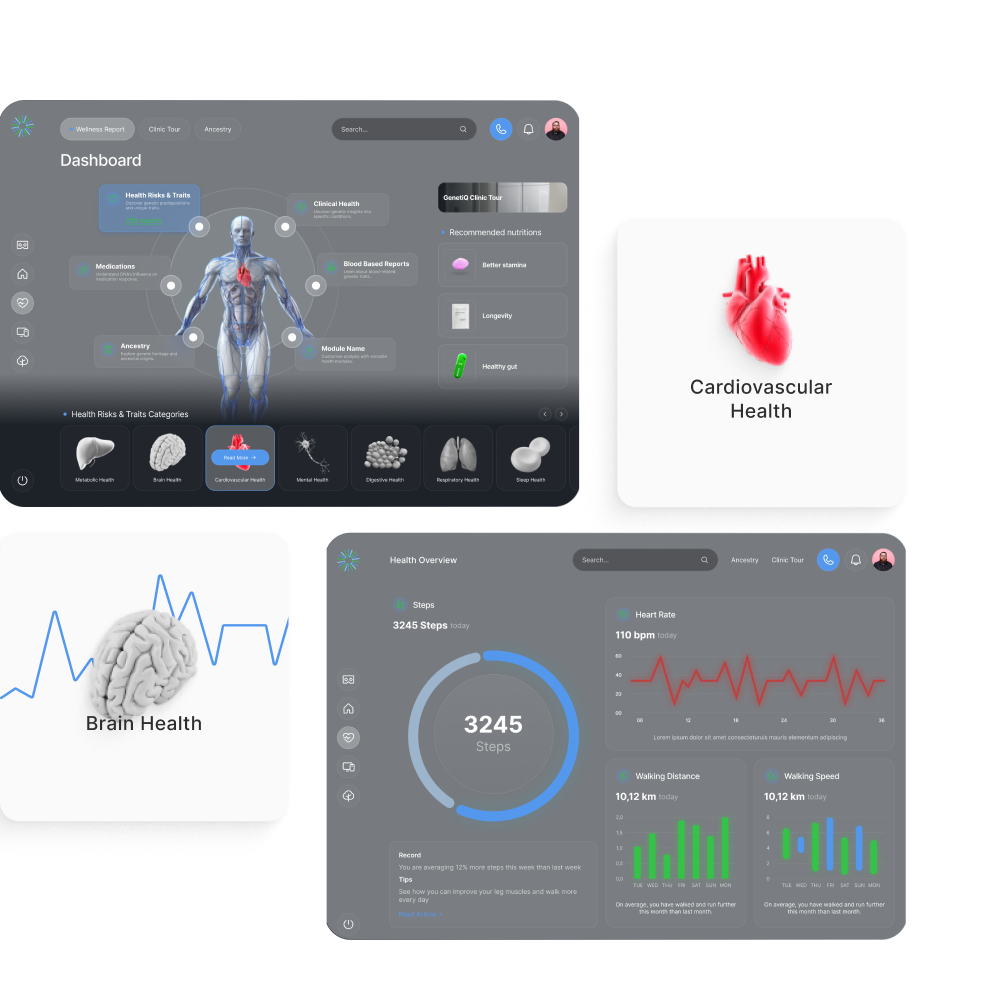
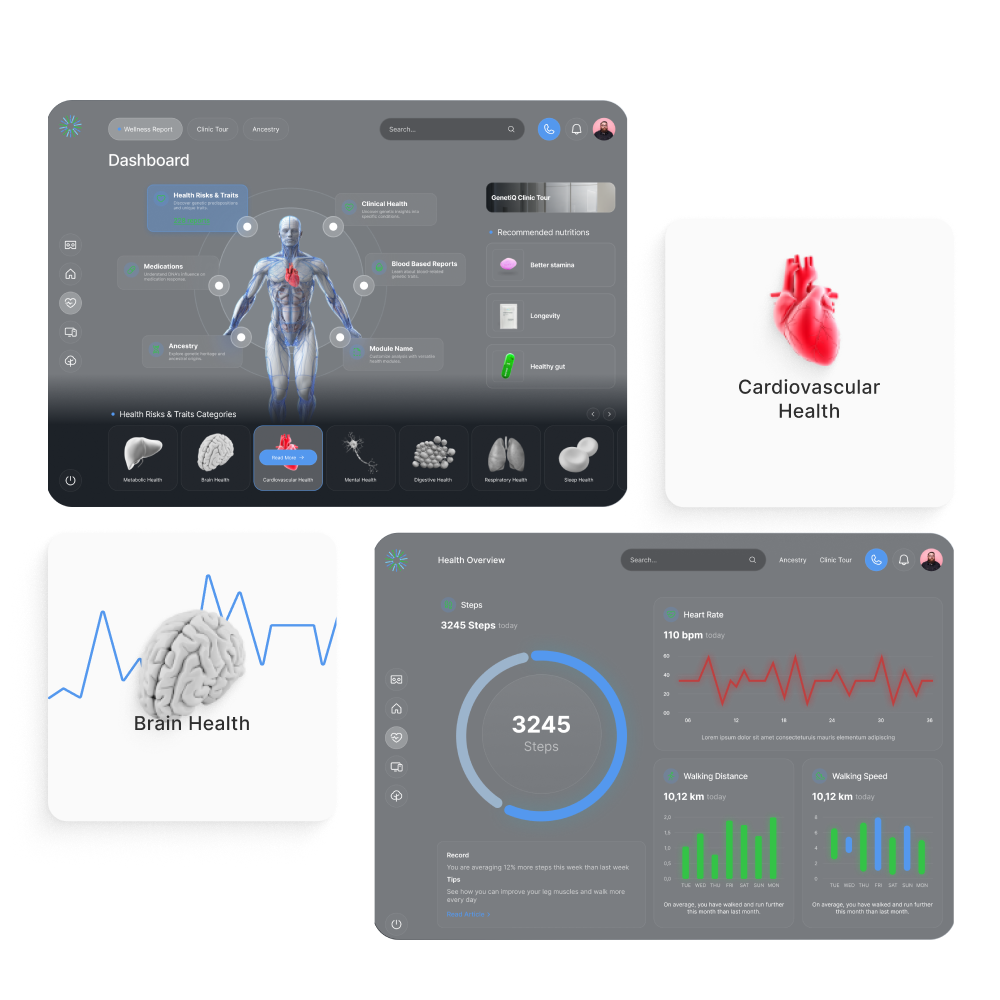
font

diff --git a/src/Sections/Embark/style.scss b/src/Sections/Embark/style.scss
@@ -47,6 +47,10 @@
       align-items: center;
       gap: 8px;
 
+      display: flex;
+      padding: 16px 20px;
+      align-items: center;
+      gap: 8px;
       border-radius: 16px;
       border: 1px solid var(--Blue, #0e2e51);
       background: #fff;

diff --git a/src/Sections/Embark/style.css b/src/Sections/Embark/style.css
@@ -48,6 +48,10 @@
   padding: 16px 20px;
   align-items: center;
   gap: 8px;
+  display: flex;
+  padding: 16px 20px;
+  align-items: center;
+  gap: 8px;
   border-radius: 16px;
   border: 1px solid var(--Blue, #0e2e51);
   background: #fff;

diff --git a/src/Sections/AnimatedCarousel/styles.css b/src/Sections/AnimatedCarousel/styles.css
@@ -2,7 +2,8 @@
   display: flex;
   width: auto;
   padding: 50px;
-  padding-bottom: 30px;
+  padding-top: 70px;
+  padding-bottom: 60px;
   gap: 32px;
   width: auto;
   overflow: hidden !important;

diff --git a/src/Sections/AnimatedCarousel/styles.scss b/src/Sections/AnimatedCarousel/styles.scss
@@ -2,7 +2,8 @@
   display: flex;
   width: auto;
   padding: 50px;
-  padding-bottom: 30px;
+  padding-top: 70px;
+  padding-bottom: 60px;
   gap: 32px;
   width: auto;
   overflow: hidden !important;

diff --git a/src/Sections/Facilities/styles.css b/src/Sections/Facilities/styles.css
@@ -2,6 +2,7 @@
   padding-left: 50px;
   padding-right: 50px;
   padding-bottom: 30px;
+  margin-top: 90px;
 }
 .facilities-outter-container .facilities-video-wrapper {
   position: relative;

diff --git a/src/Sections/Facilities/styles.scss b/src/Sections/Facilities/styles.scss
@@ -2,6 +2,7 @@
   padding-left: 50px;
   padding-right: 50px;
   padding-bottom: 30px;
+  margin-top: 90px;
 
   .facilities-video-wrapper {
     position: relative;
